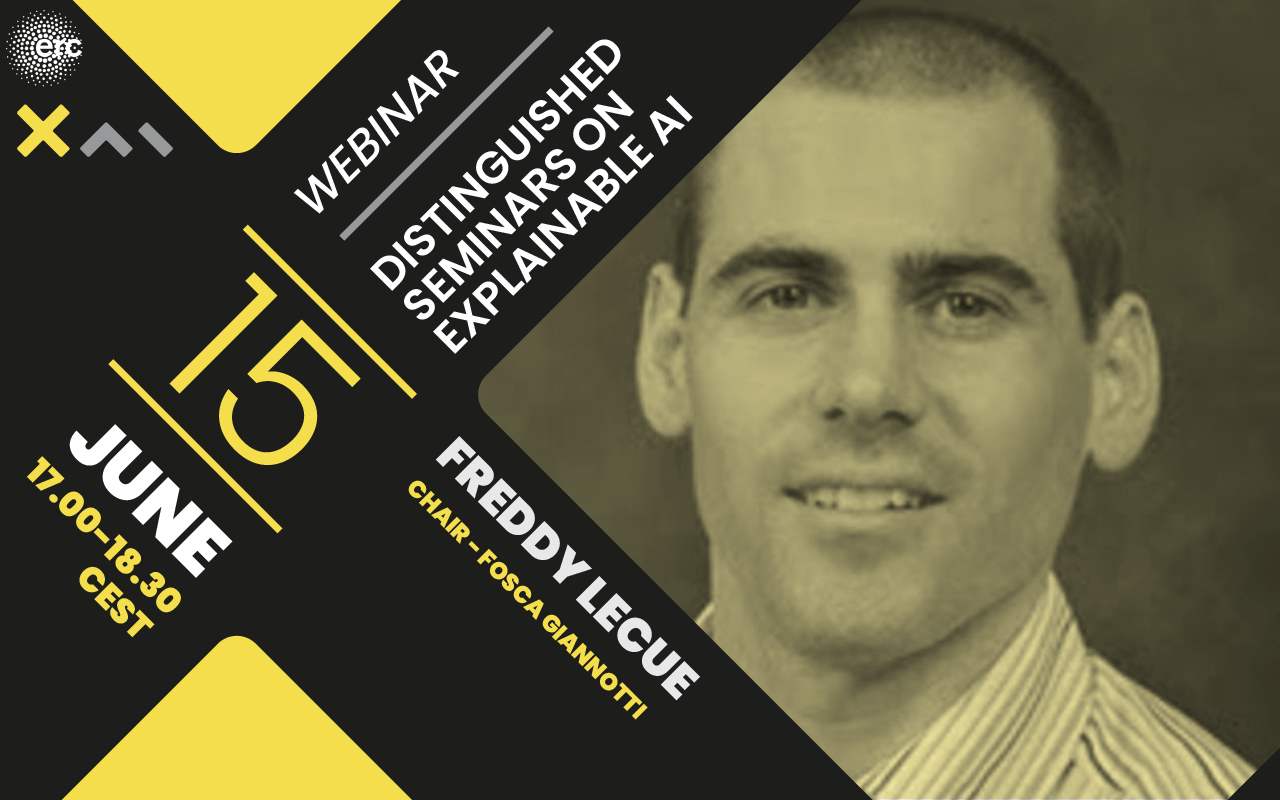
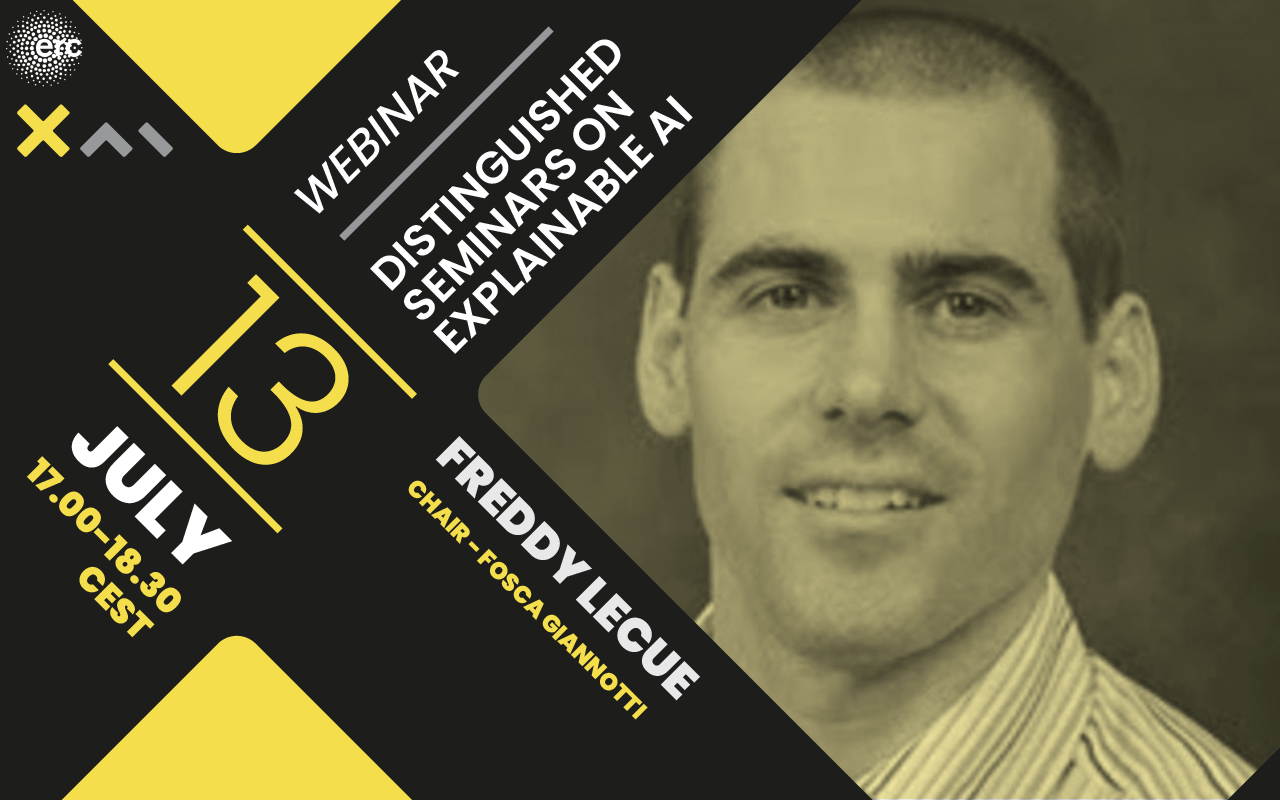
ruth added to seminars

diff --git a/_demo/dist-seminars.html b/_demo/dist-seminars.html
@@ -60,7 +60,7 @@
         <div class="container mt-lg-5 mt-3 mb-lg-5 mb-md-5 mb-3">
           <div class="row mb-5">
             <div class="col-lg-2"><a href="#">
-                <div class="bg-yellow">
+                <div class="bg-yellow h-250">
                   <div class="text-center align-items-center">
                     <div class="px-lg-4 py-lg-2 px-4 py-2">
                       <div class="mt-lg-4 mt-5">
@@ -74,7 +74,7 @@
                   </div>
                 </div></a></div>
             <div class="col-lg-2"><a href="#">
-                <div class="bg-gray-500 text-white">
+                <div class="bg-gray-500 text-white h-250">
                   <div class="text-center align-items-center">
                     <div class="px-lg-4 py-lg-2 px-4 py-2">
                       <div class="mt-lg-4 mt-5">
@@ -88,7 +88,7 @@
                   </div>
                 </div></a></div>
             <div class="col-lg-2"><a href="#">
-                <div class="bg-gray-500 text-white">
+                <div class="bg-gray-500 text-white h-250">
                   <div class="text-center align-items-center">
                     <div class="px-lg-4 py-lg-2 px-4 py-2">
                       <div class="mt-lg-4 mt-5">
@@ -102,7 +102,7 @@
                   </div>
                 </div></a></div>
             <div class="col-lg-2"><a href="#">
-                <div class="bg-gray-500 text-white">
+                <div class="bg-gray-500 text-white h-250">
                   <div class="text-center align-items-center">
                     <div class="px-lg-4 py-lg-2 px-4 py-2">
                       <div class="mt-lg-4 mt-5">
@@ -110,27 +110,13 @@
                         <h3 class="text-uppercase">June</h3>
                       </div>
                       <div class="px-lg-2 mt-lg-4 px-2 mt-3">
-                        <p>Freddy Lecue</p>
+                        <p>Ruth Byrne</p>
                       </div>
                     </div>
                   </div>
                 </div></a></div>
             <div class="col-lg-2"><a href="#">
-                <div class="bg-gray-500 text-white">
-                  <div class="text-center align-items-center">
-                    <div class="px-lg-4 py-lg-2 px-4 py-2">
-                      <div class="mt-lg-4 mt-5">
-                        <h1 class="display-1">22</h1>
-                        <h3 class="text-uppercase">June</h3>
-                      </div>
-                      <div class="px-lg-2 mt-lg-4 px-2 mt-3">
-                        <p>-To be defined-</p>
-                      </div>
-                    </div>
-                  </div>
-                </div></a></div>
-            <div class="col-lg-2"><a href="#">
-                <div class="bg-gray-500 text-white">
+                <div class="bg-gray-500 text-white h-250">
                   <div class="text-center align-items-center">
                     <div class="px-lg-4 py-lg-2 px-4 py-2">
                       <div class="mt-lg-4 mt-5">
@@ -138,11 +124,22 @@
                         <h3 class="text-uppercase">July</h3>
                       </div>
                       <div class="px-lg-2 mt-lg-4 px-2 mt-3">
-                        <p>-To be defined-</p>
+                        <p>Freddy Lecue</p>
                       </div>
                     </div>
                   </div>
                 </div></a></div>
+            <div class="col-lg-2">
+              <div class="bg-grayphite text-grayphite" style="height:241px">
+                <!--.text-center.align-items-center-->
+                <!--  .px-lg-4.py-lg-2.px-4.py-2-->
+                <!--    .mt-lg-4.mt-5-->
+                <!--      h1.display-1 ?-->
+                <!--      h3.text-uppercase date-->
+                <!--    .px-lg-2.mt-lg-4.px-2.mt-3-->
+                <!--      p TBD-->
+              </div>
+            </div>
           </div>
         </div>
         <!-- seminars-->
@@ -218,7 +215,7 @@
               </div>
             </div>
             <div class="col-lg-4">
-              <p class="text-gray-500">Apr 22, 5.00pm - 6.30pm CEST</p>
+              <p class="text-gray-500">July 13, 5.00pm - 6.30pm CEST</p>
               <h5>The role of Knowledge Graph (tbd)</h5>
               <hr>
               <p>Explainable AI (XAI) attempts to alleviate concerns of transparency, trust and ethics in AI by making them accountable, interpretable and explainable to humans. This seminars aims to encapsulate these concepts under the umbrella of Explainable Agency and bring together researchers and practitioners working in different facets of explainable AI from diverse backgrounds to share challenges, new directions and recent research in the field.</p>

diff --git a/docs/dist-seminars.html b/docs/dist-seminars.html
@@ -60,7 +60,7 @@
         <div class="container mt-lg-5 mt-3 mb-lg-5 mb-md-5 mb-3">
           <div class="row mb-5">
             <div class="col-lg-2"><a href="#">
-                <div class="bg-yellow">
+                <div class="bg-yellow h-250">
                   <div class="text-center align-items-center">
                     <div class="px-lg-4 py-lg-2 px-4 py-2">
                       <div class="mt-lg-4 mt-5">
@@ -74,7 +74,7 @@
                   </div>
                 </div></a></div>
             <div class="col-lg-2"><a href="#">
-                <div class="bg-gray-500 text-white">
+                <div class="bg-gray-500 text-white h-250">
                   <div class="text-center align-items-center">
                     <div class="px-lg-4 py-lg-2 px-4 py-2">
                       <div class="mt-lg-4 mt-5">
@@ -88,7 +88,7 @@
                   </div>
                 </div></a></div>
             <div class="col-lg-2"><a href="#">
-                <div class="bg-gray-500 text-white">
+                <div class="bg-gray-500 text-white h-250">
                   <div class="text-center align-items-center">
                     <div class="px-lg-4 py-lg-2 px-4 py-2">
                       <div class="mt-lg-4 mt-5">
@@ -102,7 +102,7 @@
                   </div>
                 </div></a></div>
             <div class="col-lg-2"><a href="#">
-                <div class="bg-gray-500 text-white">
+                <div class="bg-gray-500 text-white h-250">
                   <div class="text-center align-items-center">
                     <div class="px-lg-4 py-lg-2 px-4 py-2">
                       <div class="mt-lg-4 mt-5">
@@ -110,27 +110,13 @@
                         <h3 class="text-uppercase">June</h3>
                       </div>
                       <div class="px-lg-2 mt-lg-4 px-2 mt-3">
-                        <p>Freddy Lecue</p>
+                        <p>Ruth Byrne</p>
                       </div>
                     </div>
                   </div>
                 </div></a></div>
             <div class="col-lg-2"><a href="#">
-                <div class="bg-gray-500 text-white">
-                  <div class="text-center align-items-center">
-                    <div class="px-lg-4 py-lg-2 px-4 py-2">
-                      <div class="mt-lg-4 mt-5">
-                        <h1 class="display-1">22</h1>
-                        <h3 class="text-uppercase">June</h3>
-                      </div>
-                      <div class="px-lg-2 mt-lg-4 px-2 mt-3">
-                        <p>-To be defined-</p>
-                      </div>
-                    </div>
-                  </div>
-                </div></a></div>
-            <div class="col-lg-2"><a href="#">
-                <div class="bg-gray-500 text-white">
+                <div class="bg-gray-500 text-white h-250">
                   <div class="text-center align-items-center">
                     <div class="px-lg-4 py-lg-2 px-4 py-2">
                       <div class="mt-lg-4 mt-5">
@@ -138,11 +124,22 @@
                         <h3 class="text-uppercase">July</h3>
                       </div>
                       <div class="px-lg-2 mt-lg-4 px-2 mt-3">
-                        <p>-To be defined-</p>
+                        <p>Freddy Lecue</p>
                       </div>
                     </div>
                   </div>
                 </div></a></div>
+            <div class="col-lg-2">
+              <div class="bg-grayphite text-grayphite" style="height:241px">
+                <!--.text-center.align-items-center-->
+                <!--  .px-lg-4.py-lg-2.px-4.py-2-->
+                <!--    .mt-lg-4.mt-5-->
+                <!--      h1.display-1 ?-->
+                <!--      h3.text-uppercase date-->
+                <!--    .px-lg-2.mt-lg-4.px-2.mt-3-->
+                <!--      p TBD-->
+              </div>
+            </div>
           </div>
         </div>
         <!-- seminars-->
@@ -218,7 +215,7 @@
               </div>
             </div>
             <div class="col-lg-4">
-              <p class="text-gray-500">Apr 22, 5.00pm - 6.30pm CEST</p>
+              <p class="text-gray-500">July 13, 5.00pm - 6.30pm CEST</p>
               <h5>The role of Knowledge Graph (tbd)</h5>
               <hr>
               <p>Explainable AI (XAI) attempts to alleviate concerns of transparency, trust and ethics in AI by making them accountable, interpretable and explainable to humans. This seminars aims to encapsulate these concepts under the umbrella of Explainable Agency and bring together researchers and practitioners working in different facets of explainable AI from diverse backgrounds to share challenges, new directions and recent research in the field.</p>
